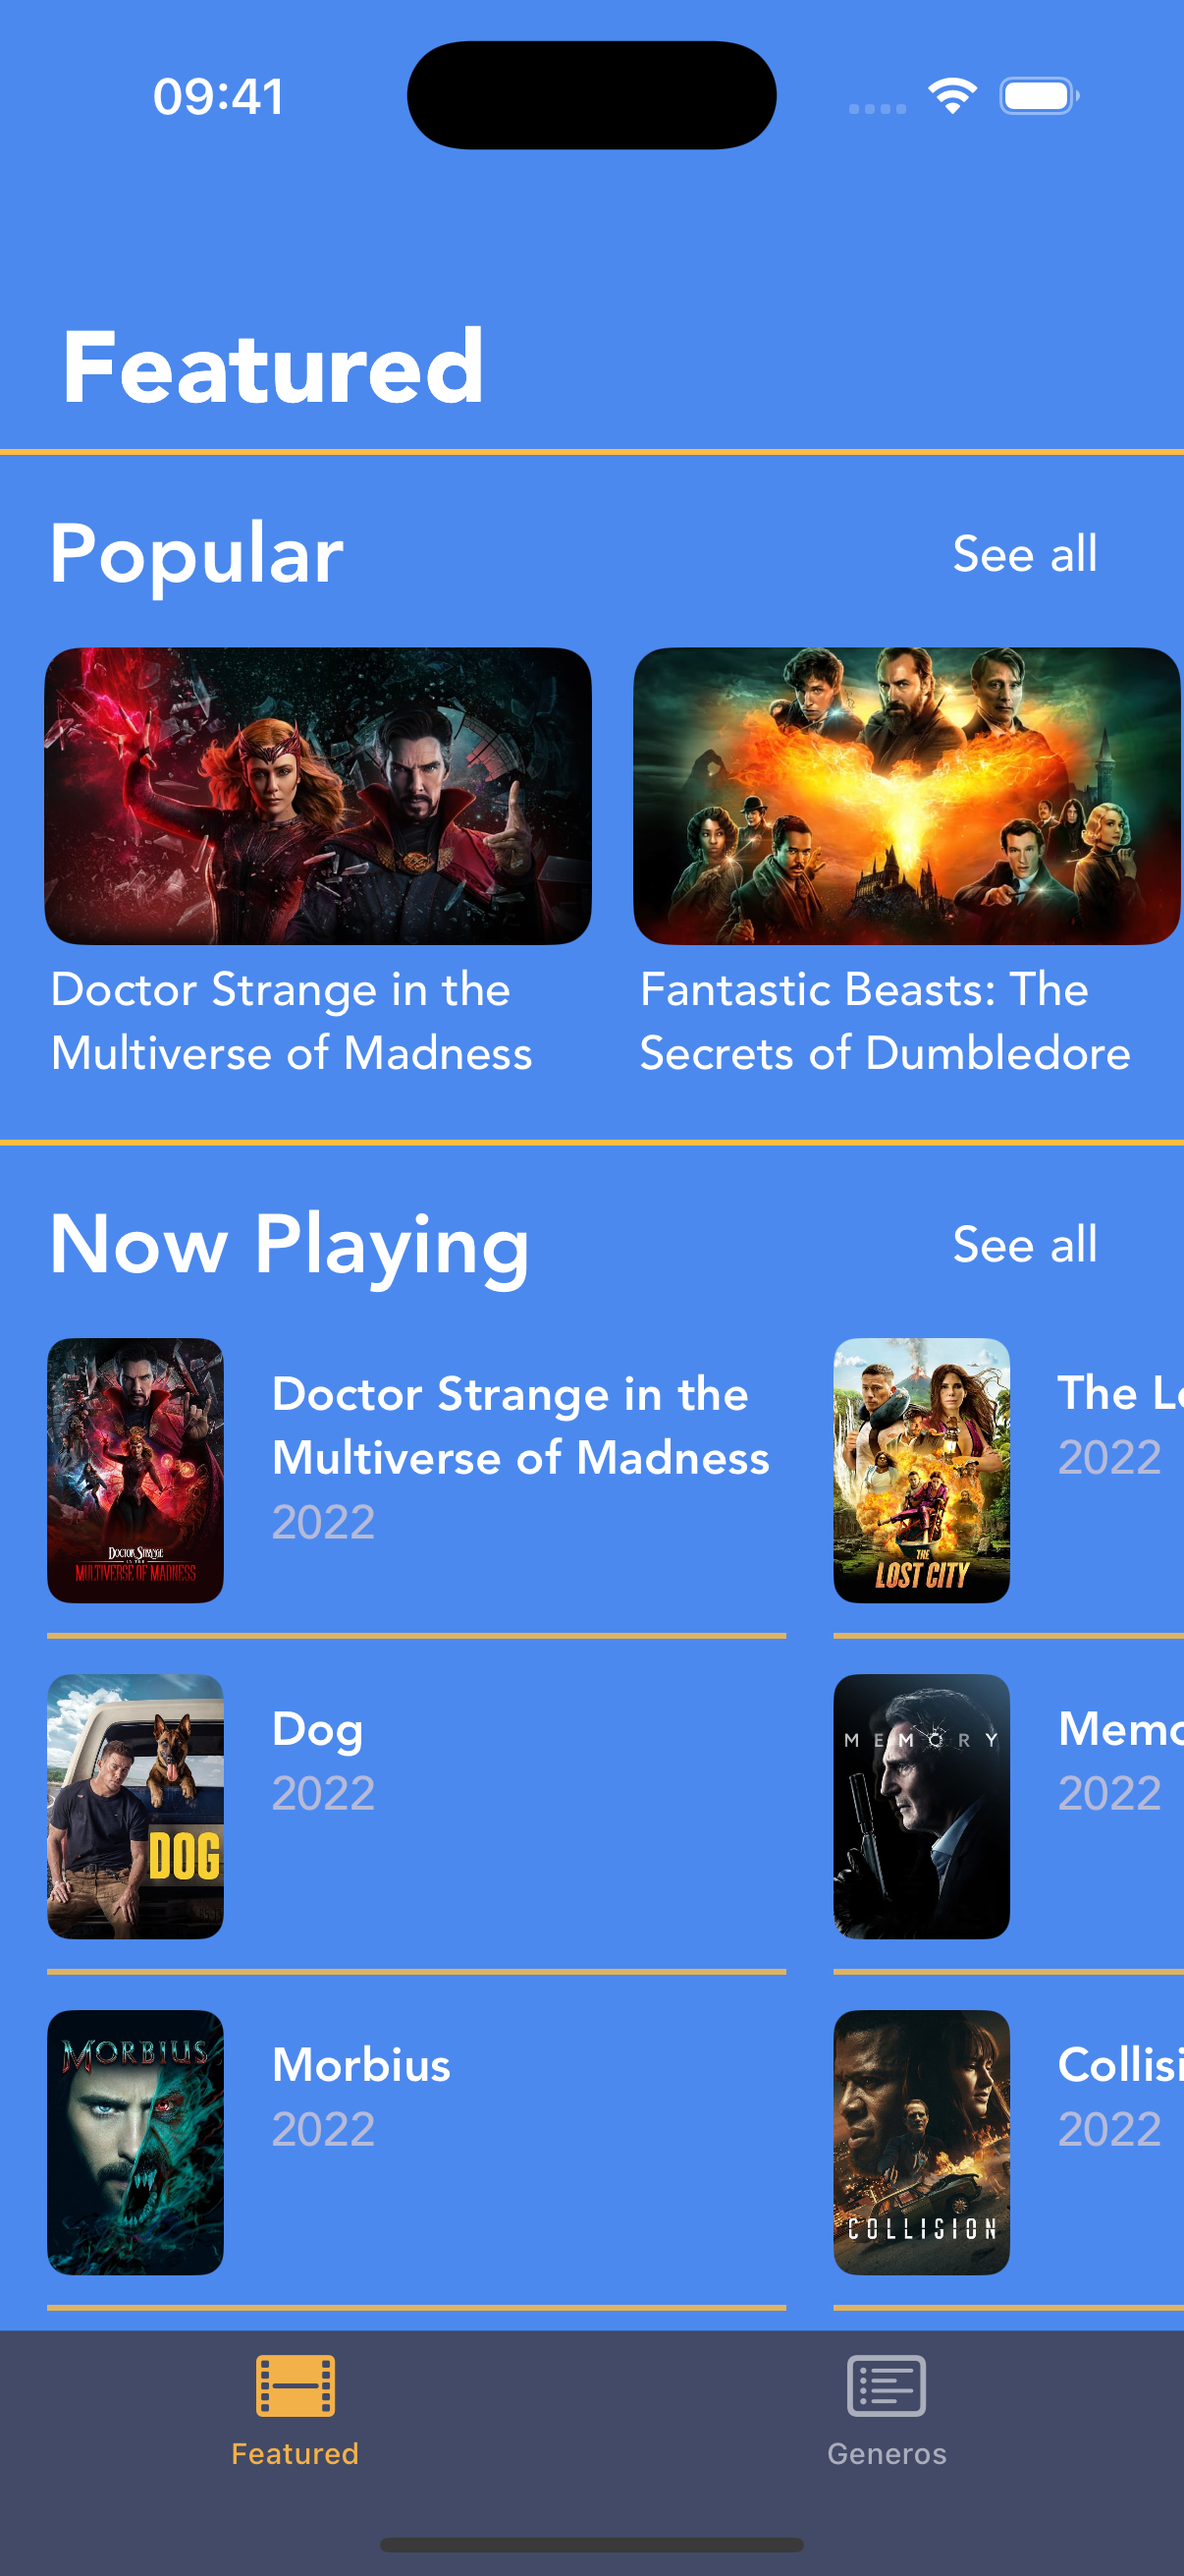
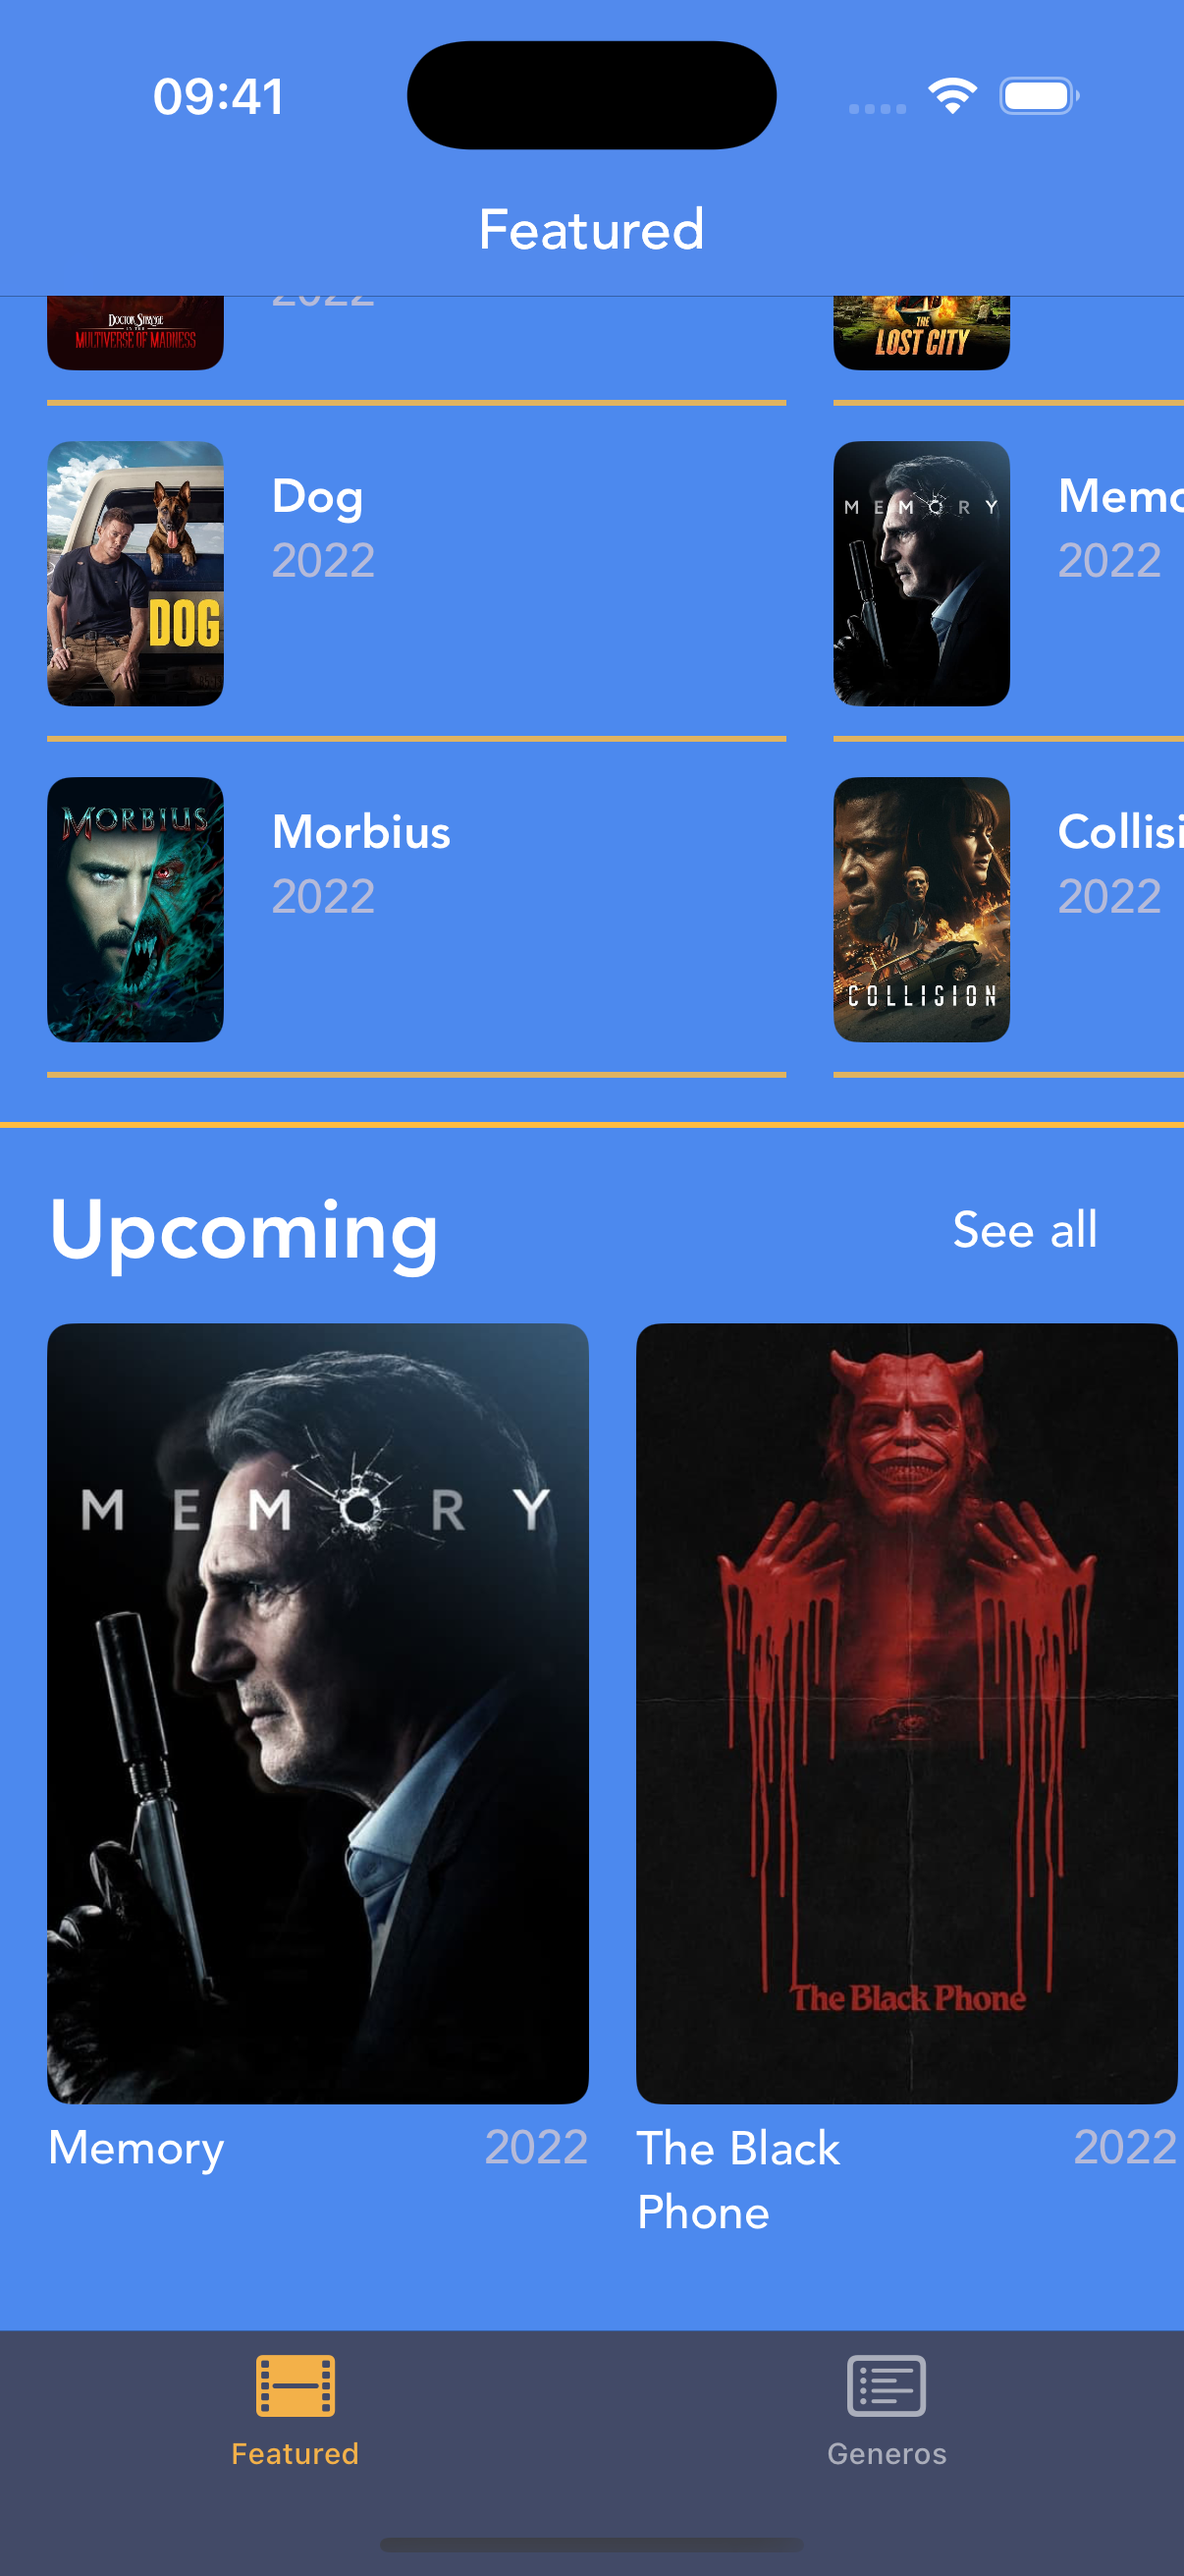
Atualiza README com screenshots das novas telas

diff --git a/README.md b/README.md
@@ -2,7 +2,7 @@
 
 # Encontre Aqui
 
-### Catalogo de filmes iOS com secoes de destaque, detalhes completos e design imersivo -- construido com Swift, UIKit e UICollectionView
+### Catalogo de filmes iOS com secoes de destaque, navegacao por genero e detalhes completos -- construido com Swift, UIKit e UICollectionView
 
 [![Swift](https://img.shields.io/badge/Swift-FA7343?style=for-the-badge&logo=swift&logoColor=white)](https://swift.org)
 [![UIKit](https://img.shields.io/badge/UIKit-0D96F6?style=for-the-badge&logo=apple&logoColor=white)](https://developer.apple.com/documentation/uikit)
@@ -14,7 +14,7 @@
 
 ## Sobre o Projeto
 
-**Encontre Aqui** e um catalogo de filmes para iOS com mais de 100 titulos organizados em secoes -- Popular, Now Playing e Upcoming. Cada filme possui poster, backdrop, sinopse, generos, data de lancamento e nota de avaliacao. A interface e construida com UICollectionView em scroll horizontal para cada secao e uma tela de detalhes completa ao tocar em qualquer filme.
+**Encontre Aqui** e um catalogo de filmes para iOS com mais de 100 titulos organizados em secoes -- Popular, Now Playing e Upcoming. O usuario pode navegar por genero, explorar todos os filmes de uma categoria e visualizar detalhes completos com poster, sinopse, avaliacao e generos.
 
 > Encontre aqui o filme pra sua proxima sessao de cinema!
 
@@ -24,9 +24,9 @@
 
 <div align="center">
 
-| Catalogo | Detalhes |
-|:---:|:---:|
-| <img src="Screenshots/home.png" width="280"> | <img width="280" alt="Detalhe do Filme" src="https://user-images.githubusercontent.com/74778769/182231312-6ddc2f75-a3f6-4024-9950-990a2a01f107.png"/> |
+| Catalogo | Generos | Ver Todos |
+|:---:|:---:|:---:|
+| <img src="Screenshots/home.png" width="220"> | <img src="Screenshots/genres.png" width="220"> | <img src="Screenshots/seeall.png" width="220"> |
 
 </div>
 
@@ -34,29 +34,28 @@
 
 ## Funcionalidades
 
-- **3 secoes de filmes** -- Popular, Now Playing e Upcoming com scroll horizontal independente
-- **+100 filmes catalogados** -- com poster, backdrop, sinopse e avaliacao
-- **Tela de detalhes** -- backdrop, poster, rating, generos, data de lancamento e sinopse completa
-- **Navegacao por segue** -- transicao fluida entre catalogo e detalhes
-- **Design imersivo** -- interface com fundo azul e cards arredondados
-- **Layout responsivo** -- Auto Layout com UICollectionView adaptavel a diferentes telas
+- **3 secoes de filmes** -- Popular, Now Playing e Upcoming com scroll horizontal
+- **Navegacao por genero** -- tab dedicada com cards por genero e contagem de filmes
+- **See All** -- grid completo de filmes ao tocar "See all" em qualquer secao
+- **Tela de detalhes** -- backdrop, poster, rating, generos, data e sinopse
+- **+100 filmes catalogados** -- com poster, backdrop e informacoes completas
+- **Tab bar intuitiva** -- Featured e Generos com icones visiveis e feedback visual
 
 ---
 
 ## Tecnologias
 
 - **Swift** -- linguagem principal do desenvolvimento
-- **UIKit** -- construcao de toda a interface com Storyboard e ViewCode
-- **UICollectionView** -- tres collection views horizontais independentes para cada secao
-- **Auto Layout** -- constraints para layout responsivo em diferentes dispositivos
-- **MVC** -- arquitetura Model-View-Controller com extensoes para DataSource e Delegate
-- **Segues** -- navegacao entre telas via Storyboard
+- **UIKit** -- interface com Storyboard e ViewCode combinados
+- **UICollectionView** -- collection views horizontais e grids programaticos
+- **Auto Layout** -- constraints para layout responsivo
+- **MVC** -- arquitetura com extensoes para DataSource e Delegate
+- **UITabBarController** -- navegacao entre secoes com tab bar customizada
+- **UINavigationController** -- hierarquia de navegacao com large titles
 
 ---
 
 ## Arquitetura
-
-O projeto segue o padrao **MVC** com extensoes separadas para DataSource e Delegate.
 
 ```
 Encontre_Aqui/
@@ -71,13 +70,16 @@ Encontre_Aqui/
 │   ├── FeaturedViewController.swift             ← tela principal
 │   ├── FeaturedViewController+DataSource.swift  ← populacao das cells
 │   ├── FeaturedViewController+Delegate.swift    ← selecao e navegacao
-│   └── DetailsViewController.swift              ← tela de detalhes
+│   ├── DetailsViewController.swift              ← tela de detalhes
+│   ├── SeeAllViewController.swift               ← grid de todos os filmes
+│   └── GenresViewController.swift               ← navegacao por genero
 ├── View/
 │   ├── PopularCollectionViewCell.swift           ← cell backdrop grande
 │   ├── NowplayingCollectionViewCell.swift        ← cell poster + ano
 │   ├── UpcomingCollectionViewCell.swift           ← cell poster + ano
-│   └── Base.lproj/
-│       └── Main.storyboard                       ← layout principal
+│   ├── SeeAllCell.swift                          ← cell do grid See All
+│   ├── GenreCell.swift                           ← card de genero
+│   └── Base.lproj/Main.storyboard               ← layout principal
 └── Assets.xcassets/                              ← 100+ posters e backdrops
 ```
 
